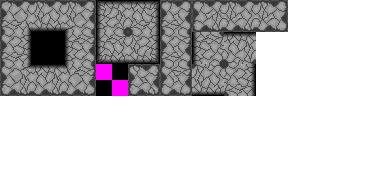
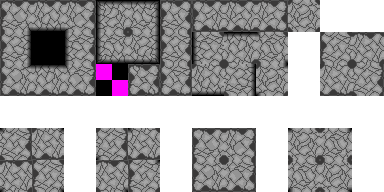
(hopefully) all rocks added

diff --git a/src/shader_utils.cpp b/src/shader_utils.cpp
@@ -24,12 +24,13 @@ namespace {
 
         if (areaMask == 511) return {1, 1}; // void
         if (areaMask == 16) return {4, 2}; // solid block
+        if (areaMask == 186) return {9, 0}; // x tile
 
         // corner cases
-        if (bottom && right && bottomright && !left && !top) return {0, 0};
-        if (top && left && topleft && !right && !bottom) return {2, 2};
-        if (bottom && left && bottomleft && !right && !top) return {2, 0};
-        if (top && right && topright && !left && !bottom) return {0, 2};
+        if (bottom && right && bottomright && !left && !top) return {0, 0}; // top left corner
+        if (top && left && topleft && !right && !bottom) return {2, 2}; // bottom right corner
+        if (bottom && left && bottomleft && !right && !top) return {2, 0}; // bottom left corner
+        if (top && right && topright && !left && !bottom) return {0, 2}; // top right corner
 
         // edge cases
         if (!top && bottom && bottomleft && bottomright && left && right) return {1, 0}; // up edge
@@ -59,6 +60,39 @@ namespace {
         if (areaMask == 251) return {6, 1}; // inverted T right
         if (areaMask == 191) return {7, 1}; // inverted T down
 
+        // 2 corner tiles
+        if (areaMask == 443) return {8, 1}; // 2 corner
+        if (areaMask == 254) return {8, 2}; // 2 corner flipped
+
+        // T tiles
+        if (left && right && top && !bottom && !topleft && !topright) return {10, 2}; // Top
+        if (top && bottom && left && !right && !topleft && !bottomleft) return {11, 2}; // left
+        if (top && bottom && right && !left && !topright && !bottomright) return {10, 1}; // right
+        if (left && right && bottom && !top && !bottomleft && !bottomright) return {11, 1}; // down
+
+        // T tiles with one void corner
+        if (left && right && top && !bottom && !topleft && topright) return {1, 4}; // Top with right void
+        if (top && bottom && left && !right && !bottomleft && topleft) return {0, 4}; // left with top void
+        if (top && bottom && right && !left && !topright && bottomright) return {1, 5}; // right with down void
+        if (left && right && bottom && !top && !bottomright && bottomleft) return {0, 5}; // down with right void
+        
+        if (left && right && top && !bottom && topleft && !topright) return {4, 4}; // Top with left void
+        if (top && bottom && left && !right && bottomleft && !topleft) return {3, 4}; // left with down void
+        if (top && bottom && right && !left && topright && !bottomright) return {4, 5}; // right with top void
+        if (left && right && bottom && !top && bottomright && !bottomleft) return {3, 5}; // down with left void
+
+        // L tils
+        if (bottom && right && !bottomright && !left && !top) return {6, 4}; // top left
+        if (top && left && !topleft && !right && !bottom) return {7, 5}; // bottom right   
+        if (bottom && left && !bottomleft && !right && !top) return {7, 4}; // top right
+        if (top && right && !topright && !left && !bottom) return {6, 5}; // bottom left
+        
+        // 3 corner tiles
+        if (areaMask == 187) return {9, 4}; // void tile top left
+        if (areaMask == 190) return {10, 4}; // void tile top right
+        if (areaMask == 250) return {9, 5}; // void tile down left
+        if (areaMask == 442) return {10, 5}; // void tile down right
+        
         return {3, 2}; // missing tile
     }
 }
